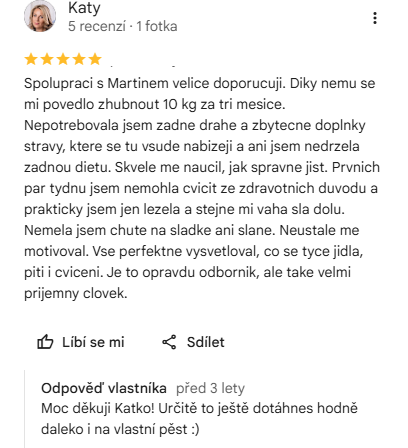
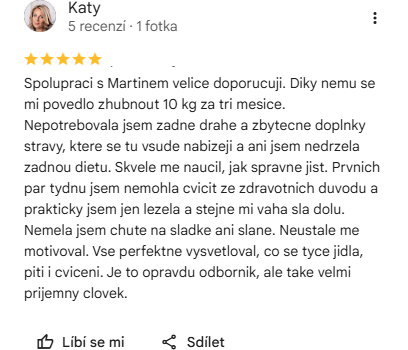
Reference: docistene screeny recenzi bez Martinovy odpovedi s datem
Navazuje na 49578de, ktery zakryl primarni datum, ale nechal SEKUNDARNI
datum v Martinove odpovedi pod recenzi (Google "Odpoved vlastnika",
FB vlakno). Martinovo rozhodnuti 25. 8.: "Odpoved na recenzi muzes
vyriznout, staci recenze samotna."

19 z 24 souboru v assets/recenze/ nahrazeno docistenou verzi (12 Google
+ 7 FB). Zbylych 5 uz bylo ciste (viencek-rostislav, miller-kacenka,
dittrich-kristina, kalnik-jakub, ivankova-katka), nesahano.

Zaroven opraveny atributy height u tech 19 obrazku v reference/index.html.
Commit 49578de je menil bez upravy HTML, takze rezervace mista pred
nactenim byla spatne (napr. gracova-denda html 553 vs soubor 476).
Zmereno z IHDR, po oprave 24 z 24 sedi. Sirky se nemenily, texty ani
alt popisky take ne.

Changed region(s): [[0.0588, 0.0, 0.9412, 0.8], [0.0588, 0.8286, 0.8824, 1.0], [0.9118, 0.0286, 0.9412, 0.0571]]

diff --git a/reference/index.html b/reference/index.html
@@ -1035,28 +1035,28 @@
         <div class="shotgrid">
                 <figure class="shot"><a href="/assets/recenze/google/viencek-rostislav.png" target="_blank" rel="noopener" title="Otevřít screenshot v plné velikosti"><img src="/assets/recenze/google/viencek-rostislav.png" alt="Recenze na Googlu od Rostislav Viencek, hodnocení 5 hvězdiček" width="408" height="595" style="max-width:408px" loading="lazy" decoding="async"></a></figure>
                 <figure class="shot"><a href="/assets/recenze/fb/miller-kacenka.png" target="_blank" rel="noopener" title="Otevřít screenshot v plné velikosti"><img src="/assets/recenze/fb/miller-kacenka.png" alt="Doporučení na Facebooku od Kačenka Miller" width="680" height="514" style="max-width:680px" loading="lazy" decoding="async"></a></figure>
-                <figure class="shot"><a href="/assets/recenze/google/gracova-denda.png" target="_blank" rel="noopener" title="Otevřít screenshot v plné velikosti"><img src="/assets/recenze/google/gracova-denda.png" alt="Recenze na Googlu od Denda Grácová, hodnocení 5 hvězdiček" width="408" height="553" style="max-width:408px" loading="lazy" decoding="async"></a></figure>
-                <figure class="shot"><a href="/assets/recenze/fb/kazik-martin.png" target="_blank" rel="noopener" title="Otevřít screenshot v plné velikosti"><img src="/assets/recenze/fb/kazik-martin.png" alt="Doporučení na Facebooku od Martin Kazík" width="680" height="350" style="max-width:680px" loading="lazy" decoding="async"></a></figure>
-                <figure class="shot"><a href="/assets/recenze/google/simarova-marketa.png" target="_blank" rel="noopener" title="Otevřít screenshot v plné velikosti"><img src="/assets/recenze/google/simarova-marketa.png" alt="Recenze na Googlu od Markéta Šimarová, hodnocení 5 hvězdiček" width="408" height="448" style="max-width:408px" loading="lazy" decoding="async"></a></figure>
+                <figure class="shot"><a href="/assets/recenze/google/gracova-denda.png" target="_blank" rel="noopener" title="Otevřít screenshot v plné velikosti"><img src="/assets/recenze/google/gracova-denda.png" alt="Recenze na Googlu od Denda Grácová, hodnocení 5 hvězdiček" width="408" height="476" style="max-width:408px" loading="lazy" decoding="async"></a></figure>
+                <figure class="shot"><a href="/assets/recenze/fb/kazik-martin.png" target="_blank" rel="noopener" title="Otevřít screenshot v plné velikosti"><img src="/assets/recenze/fb/kazik-martin.png" alt="Doporučení na Facebooku od Martin Kazík" width="680" height="195" style="max-width:680px" loading="lazy" decoding="async"></a></figure>
+                <figure class="shot"><a href="/assets/recenze/google/simarova-marketa.png" target="_blank" rel="noopener" title="Otevřít screenshot v plné velikosti"><img src="/assets/recenze/google/simarova-marketa.png" alt="Recenze na Googlu od Markéta Šimarová, hodnocení 5 hvězdiček" width="408" height="329" style="max-width:408px" loading="lazy" decoding="async"></a></figure>
                 <figure class="shot"><a href="/assets/recenze/fb/dittrich-kristina.png" target="_blank" rel="noopener" title="Otevřít screenshot v plné velikosti"><img src="/assets/recenze/fb/dittrich-kristina.png" alt="Doporučení na Facebooku od Kristina Dittrich" width="680" height="453" style="max-width:680px" loading="lazy" decoding="async"></a></figure>
-                <figure class="shot"><a href="/assets/recenze/google/katy.png" target="_blank" rel="noopener" title="Otevřít screenshot v plné velikosti"><img src="/assets/recenze/google/katy.png" alt="Recenze na Googlu od Katy, hodnocení 5 hvězdiček" width="408" height="448" style="max-width:408px" loading="lazy" decoding="async"></a></figure>
-                <figure class="shot"><a href="/assets/recenze/fb/nagy-hana.png" target="_blank" rel="noopener" title="Otevřít screenshot v plné velikosti"><img src="/assets/recenze/fb/nagy-hana.png" alt="Doporučení na Facebooku od Hana Nagy" width="680" height="462" style="max-width:680px" loading="lazy" decoding="async"></a></figure>
-                <figure class="shot"><a href="/assets/recenze/google/kahajova-jana.png" target="_blank" rel="noopener" title="Otevřít screenshot v plné velikosti"><img src="/assets/recenze/google/kahajova-jana.png" alt="Recenze na Googlu od Jana Kahajová, hodnocení 5 hvězdiček" width="408" height="742" style="max-width:408px" loading="lazy" decoding="async"></a></figure>
-                <figure class="shot"><a href="/assets/recenze/fb/kondziolkova-michaela.png" target="_blank" rel="noopener" title="Otevřít screenshot v plné velikosti"><img src="/assets/recenze/fb/kondziolkova-michaela.png" alt="Doporučení na Facebooku od Michaela Kondziolková" width="680" height="341" style="max-width:680px" loading="lazy" decoding="async"></a></figure>
-                <figure class="shot"><a href="/assets/recenze/google/nitrova-jarmila.png" target="_blank" rel="noopener" title="Otevřít screenshot v plné velikosti"><img src="/assets/recenze/google/nitrova-jarmila.png" alt="Recenze na Googlu od Jarmila Nitrová, hodnocení 5 hvězdiček" width="408" height="448" style="max-width:408px" loading="lazy" decoding="async"></a></figure>
-                <figure class="shot"><a href="/assets/recenze/fb/janik-lukas.png" target="_blank" rel="noopener" title="Otevřít screenshot v plné velikosti"><img src="/assets/recenze/fb/janik-lukas.png" alt="Doporučení na Facebooku od Lukáš Janík" width="680" height="320" style="max-width:680px" loading="lazy" decoding="async"></a></figure>
-                <figure class="shot"><a href="/assets/recenze/google/k.-zuza.png" target="_blank" rel="noopener" title="Otevřít screenshot v plné velikosti"><img src="/assets/recenze/google/k.-zuza.png" alt="Recenze na Googlu od Zuza K., hodnocení 5 hvězdiček" width="408" height="616" style="max-width:408px" loading="lazy" decoding="async"></a></figure>
+                <figure class="shot"><a href="/assets/recenze/google/katy.png" target="_blank" rel="noopener" title="Otevřít screenshot v plné velikosti"><img src="/assets/recenze/google/katy.png" alt="Recenze na Googlu od Katy, hodnocení 5 hvězdiček" width="408" height="350" style="max-width:408px" loading="lazy" decoding="async"></a></figure>
+                <figure class="shot"><a href="/assets/recenze/fb/nagy-hana.png" target="_blank" rel="noopener" title="Otevřít screenshot v plné velikosti"><img src="/assets/recenze/fb/nagy-hana.png" alt="Doporučení na Facebooku od Hana Nagy" width="680" height="309" style="max-width:680px" loading="lazy" decoding="async"></a></figure>
+                <figure class="shot"><a href="/assets/recenze/google/kahajova-jana.png" target="_blank" rel="noopener" title="Otevřít screenshot v plné velikosti"><img src="/assets/recenze/google/kahajova-jana.png" alt="Recenze na Googlu od Jana Kahajová, hodnocení 5 hvězdiček" width="408" height="545" style="max-width:408px" loading="lazy" decoding="async"></a></figure>
+                <figure class="shot"><a href="/assets/recenze/fb/kondziolkova-michaela.png" target="_blank" rel="noopener" title="Otevřít screenshot v plné velikosti"><img src="/assets/recenze/fb/kondziolkova-michaela.png" alt="Doporučení na Facebooku od Michaela Kondziolková" width="680" height="195" style="max-width:680px" loading="lazy" decoding="async"></a></figure>
+                <figure class="shot"><a href="/assets/recenze/google/nitrova-jarmila.png" target="_blank" rel="noopener" title="Otevřít screenshot v plné velikosti"><img src="/assets/recenze/google/nitrova-jarmila.png" alt="Recenze na Googlu od Jarmila Nitrová, hodnocení 5 hvězdiček" width="408" height="329" style="max-width:408px" loading="lazy" decoding="async"></a></figure>
+                <figure class="shot"><a href="/assets/recenze/fb/janik-lukas.png" target="_blank" rel="noopener" title="Otevřít screenshot v plné velikosti"><img src="/assets/recenze/fb/janik-lukas.png" alt="Doporučení na Facebooku od Lukáš Janík" width="680" height="169" style="max-width:680px" loading="lazy" decoding="async"></a></figure>
+                <figure class="shot"><a href="/assets/recenze/google/k.-zuza.png" target="_blank" rel="noopener" title="Otevřít screenshot v plné velikosti"><img src="/assets/recenze/google/k.-zuza.png" alt="Recenze na Googlu od Zuza K., hodnocení 5 hvězdiček" width="408" height="476" style="max-width:408px" loading="lazy" decoding="async"></a></figure>
                 <figure class="shot"><a href="/assets/recenze/fb/kalnik-jakub.png" target="_blank" rel="noopener" title="Otevřít screenshot v plné velikosti"><img src="/assets/recenze/fb/kalnik-jakub.png" alt="Doporučení na Facebooku od Jakub Kalnik" width="680" height="313" style="max-width:680px" loading="lazy" decoding="async"></a></figure>
-                <figure class="shot"><a href="/assets/recenze/google/l.-katerina.png" target="_blank" rel="noopener" title="Otevřít screenshot v plné velikosti"><img src="/assets/recenze/google/l.-katerina.png" alt="Recenze na Googlu od Kateřina L., hodnocení 5 hvězdiček" width="408" height="364" style="max-width:408px" loading="lazy" decoding="async"></a></figure>
-                <figure class="shot"><a href="/assets/recenze/fb/tomankova-janina.png" target="_blank" rel="noopener" title="Otevřít screenshot v plné velikosti"><img src="/assets/recenze/fb/tomankova-janina.png" alt="Doporučení na Facebooku od Janina Tomanková" width="680" height="347" style="max-width:680px" loading="lazy" decoding="async"></a></figure>
-                <figure class="shot"><a href="/assets/recenze/google/kubesova-helena.png" target="_blank" rel="noopener" title="Otevřít screenshot v plné velikosti"><img src="/assets/recenze/google/kubesova-helena.png" alt="Recenze na Googlu od Helena Kubešová, hodnocení 5 hvězdiček" width="408" height="469" style="max-width:408px" loading="lazy" decoding="async"></a></figure>
-                <figure class="shot"><a href="/assets/recenze/fb/vaculova-pavlina.png" target="_blank" rel="noopener" title="Otevřít screenshot v plné velikosti"><img src="/assets/recenze/fb/vaculova-pavlina.png" alt="Doporučení na Facebooku od Pavlína Vaculová" width="680" height="340" style="max-width:680px" loading="lazy" decoding="async"></a></figure>
-                <figure class="shot"><a href="/assets/recenze/google/kribik-marek.png" target="_blank" rel="noopener" title="Otevřít screenshot v plné velikosti"><img src="/assets/recenze/google/kribik-marek.png" alt="Recenze na Googlu od Marek Křibík, hodnocení 5 hvězdiček" width="408" height="343" style="max-width:408px" loading="lazy" decoding="async"></a></figure>
+                <figure class="shot"><a href="/assets/recenze/google/l.-katerina.png" target="_blank" rel="noopener" title="Otevřít screenshot v plné velikosti"><img src="/assets/recenze/google/l.-katerina.png" alt="Recenze na Googlu od Kateřina L., hodnocení 5 hvězdiček" width="408" height="287" style="max-width:408px" loading="lazy" decoding="async"></a></figure>
+                <figure class="shot"><a href="/assets/recenze/fb/tomankova-janina.png" target="_blank" rel="noopener" title="Otevřít screenshot v plné velikosti"><img src="/assets/recenze/fb/tomankova-janina.png" alt="Doporučení na Facebooku od Janina Tomanková" width="680" height="228" style="max-width:680px" loading="lazy" decoding="async"></a></figure>
+                <figure class="shot"><a href="/assets/recenze/google/kubesova-helena.png" target="_blank" rel="noopener" title="Otevřít screenshot v plné velikosti"><img src="/assets/recenze/google/kubesova-helena.png" alt="Recenze na Googlu od Helena Kubešová, hodnocení 5 hvězdiček" width="408" height="329" style="max-width:408px" loading="lazy" decoding="async"></a></figure>
+                <figure class="shot"><a href="/assets/recenze/fb/vaculova-pavlina.png" target="_blank" rel="noopener" title="Otevřít screenshot v plné velikosti"><img src="/assets/recenze/fb/vaculova-pavlina.png" alt="Doporučení na Facebooku od Pavlína Vaculová" width="680" height="215" style="max-width:680px" loading="lazy" decoding="async"></a></figure>
+                <figure class="shot"><a href="/assets/recenze/google/kribik-marek.png" target="_blank" rel="noopener" title="Otevřít screenshot v plné velikosti"><img src="/assets/recenze/google/kribik-marek.png" alt="Recenze na Googlu od Marek Křibík, hodnocení 5 hvězdiček" width="408" height="224" style="max-width:408px" loading="lazy" decoding="async"></a></figure>
                 <figure class="shot"><a href="/assets/recenze/fb/ivankova-katka.png" target="_blank" rel="noopener" title="Otevřít screenshot v plné velikosti"><img src="/assets/recenze/fb/ivankova-katka.png" alt="Doporučení na Facebooku od Katka Ivánková" width="680" height="274" style="max-width:680px" loading="lazy" decoding="async"></a></figure>
-                <figure class="shot"><a href="/assets/recenze/google/cerniakova-monika.png" target="_blank" rel="noopener" title="Otevřít screenshot v plné velikosti"><img src="/assets/recenze/google/cerniakova-monika.png" alt="Recenze na Googlu od Monika Černiaková, hodnocení 5 hvězdiček" width="408" height="469" style="max-width:408px" loading="lazy" decoding="async"></a></figure>
-                <figure class="shot"><a href="/assets/recenze/fb/moravkova-natalie.png" target="_blank" rel="noopener" title="Otevřít screenshot v plné velikosti"><img src="/assets/recenze/fb/moravkova-natalie.png" alt="Doporučení na Facebooku od Natálie Morávková" width="680" height="288" style="max-width:680px" loading="lazy" decoding="async"></a></figure>
-                <figure class="shot"><a href="/assets/recenze/google/farsky-pavel.png" target="_blank" rel="noopener" title="Otevřít screenshot v plné velikosti"><img src="/assets/recenze/google/farsky-pavel.png" alt="Recenze na Googlu od Pavel Farský, hodnocení 5 hvězdiček" width="408" height="658" style="max-width:408px" loading="lazy" decoding="async"></a></figure>
-                <figure class="shot"><a href="/assets/recenze/google/brozova-sona.png" target="_blank" rel="noopener" title="Otevřít screenshot v plné velikosti"><img src="/assets/recenze/google/brozova-sona.png" alt="Recenze na Googlu od Soňa Brožová, hodnocení 5 hvězdiček" width="408" height="391" style="max-width:408px" loading="lazy" decoding="async"></a></figure>
+                <figure class="shot"><a href="/assets/recenze/google/cerniakova-monika.png" target="_blank" rel="noopener" title="Otevřít screenshot v plné velikosti"><img src="/assets/recenze/google/cerniakova-monika.png" alt="Recenze na Googlu od Monika Černiaková, hodnocení 5 hvězdiček" width="408" height="392" style="max-width:408px" loading="lazy" decoding="async"></a></figure>
+                <figure class="shot"><a href="/assets/recenze/fb/moravkova-natalie.png" target="_blank" rel="noopener" title="Otevřít screenshot v plné velikosti"><img src="/assets/recenze/fb/moravkova-natalie.png" alt="Doporučení na Facebooku od Natálie Morávková" width="680" height="164" style="max-width:680px" loading="lazy" decoding="async"></a></figure>
+                <figure class="shot"><a href="/assets/recenze/google/farsky-pavel.png" target="_blank" rel="noopener" title="Otevřít screenshot v plné velikosti"><img src="/assets/recenze/google/farsky-pavel.png" alt="Recenze na Googlu od Pavel Farský, hodnocení 5 hvězdiček" width="408" height="518" style="max-width:408px" loading="lazy" decoding="async"></a></figure>
+                <figure class="shot"><a href="/assets/recenze/google/brozova-sona.png" target="_blank" rel="noopener" title="Otevřít screenshot v plné velikosti"><img src="/assets/recenze/google/brozova-sona.png" alt="Recenze na Googlu od Soňa Brožová, hodnocení 5 hvězdiček" width="408" height="314" style="max-width:408px" loading="lazy" decoding="async"></a></figure>
         </div>
 
         <section class="textrec" aria-labelledby="textrec-h">
